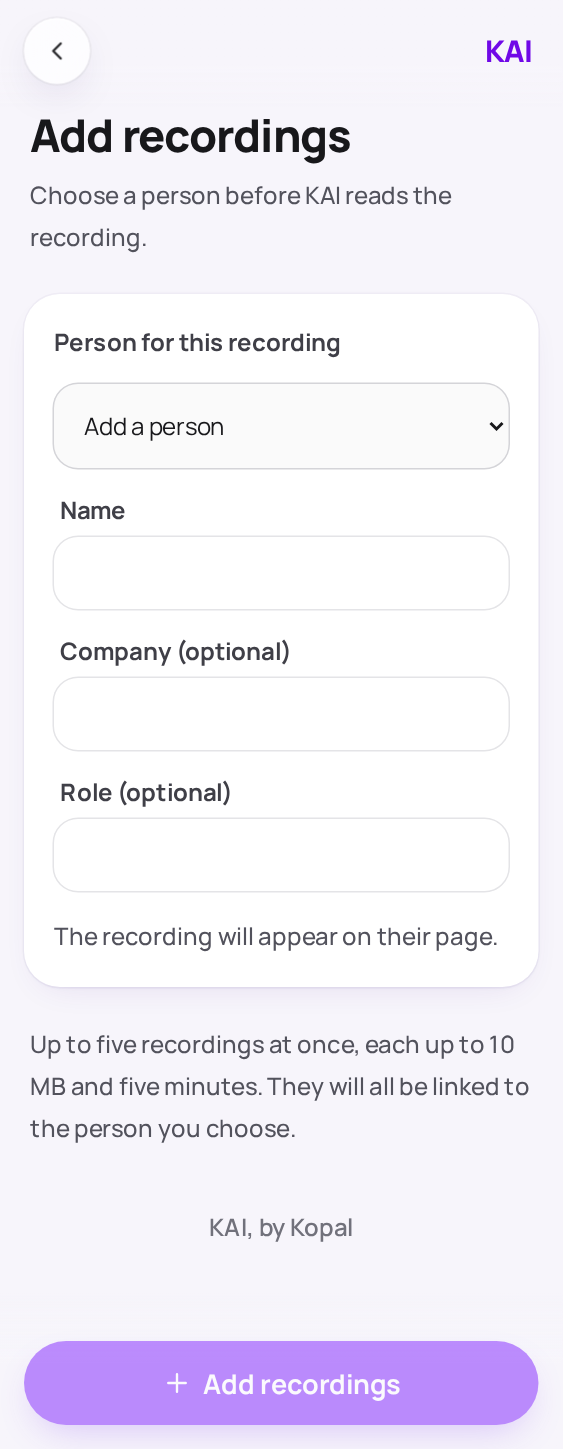
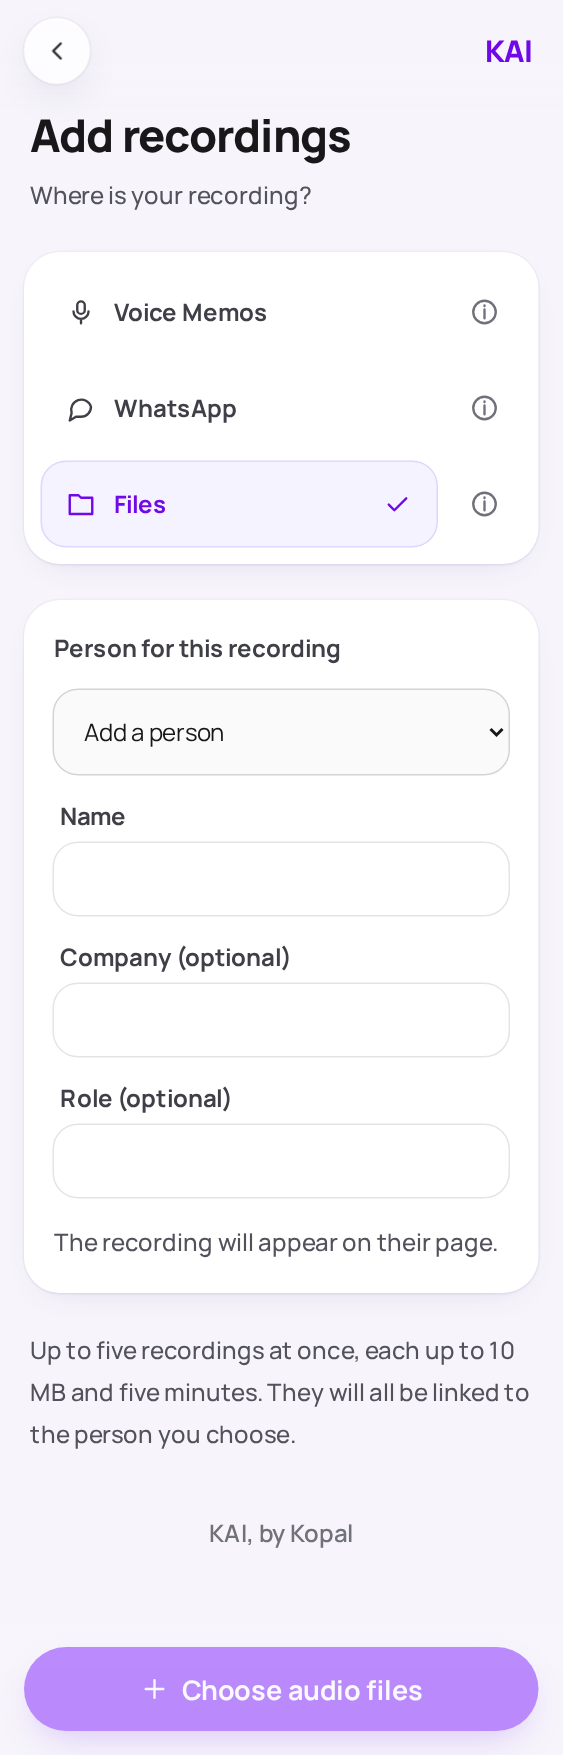
Guide audio uploads from Voice Memos, WhatsApp and Files

diff --git a/src/look/screens/Upload.tsx b/src/look/screens/Upload.tsx
@@ -1,8 +1,22 @@
 import { useState } from 'react'
 import type { LinkedPerson, PersonChoice } from '../types'
-import { Button, Card, Field, Notice, PushedPage, RecordingPicker, WhatIsKai } from '../ui'
+import { Button, Card, Field, FOCUS, Notice, PushedPage, RecordingPicker, WhatIsKai } from '../ui'
+import {Icon,type IconName} from '../icons'
+export type UploadSource='voice-memos'|'whatsapp'|'files'
+const sources:{id:UploadSource;label:string;icon:IconName}[]=[{id:'voice-memos',label:'Voice Memos',icon:'mic'},{id:'whatsapp',label:'WhatsApp',icon:'chat'},{id:'files',label:'Files',icon:'folder'}]
+const guides:Record<UploadSource,string[]>={
+ 'voice-memos':['Choose a recording in Voice Memos.','Tap More (…), then Share. If Options appears, choose Rendered audio.','Choose Send to KAI. Your browser opens so you can choose a person before KAI reads.'],
+ whatsapp:['Hold the voice note in WhatsApp, then tap Forward.','Tap Share, then Send to KAI.','Your browser opens so you can choose who sent it before KAI reads.'],
+ files:['Save a recording to Files from the app’s Share menu.','Choose the person below, then choose up to five audio files.','KAI checks their length against your remaining time before starting.']
+}
+const timeLeft=(seconds:number)=>`${Math.floor(seconds/60)} min ${seconds%60} sec`
 
-export function Upload({ people, incoming, readOnly, presetPerson, busy, error, loadError, onFiles, onStart, onRetry }: {
+export function Upload({ people, incoming, readOnly, presetPerson, busy, error, loadError, onFiles, onStart, onRetry, shortcutReady=false, remainingSeconds, xPostUrl, initialSource='files', initialGuide }: {
+  shortcutReady?: boolean
+  remainingSeconds?: number | null
+  xPostUrl?: string | null
+  initialSource?: UploadSource
+  initialGuide?: UploadSource
   people: LinkedPerson[] | null
   incoming?: { id: string; title: string } | null
   readOnly: boolean
@@ -14,17 +28,22 @@ export function Upload({ people, incoming, readOnly, presetPerson, busy, error, 
   onStart: (person: PersonChoice) => void
   onRetry: () => void
 }) {
+  const [source,setSource]=useState<UploadSource>(initialSource),[guide,setGuide]=useState<UploadSource|null>(initialGuide ?? null)
+  const exhausted=remainingSeconds===0 && !incoming
   const [selected,setSelected]=useState(presetPerson ?? '')
   const [id]=useState(()=>crypto.randomUUID())
   const [name,setName]=useState(''),[company,setCompany]=useState(''),[role,setRole]=useState('')
   const person:PersonChoice=selected==='new' ? {new_person:{id,name:name.trim(),company:company.trim(),role:role.trim()}} : {person_id:selected || null}
   const valid=selected!=='new' || Boolean(name.trim())
-  const dock=readOnly ? <WhatIsKai/> : loadError ? <Button variant="primary" wide onClick={onRetry}>Try again</Button> : !people ? <Button variant="primary" wide disabled>Opening…</Button> : incoming ? <Button variant="primary" wide disabled={busy || !valid} onClick={()=>onStart(person)}>{busy ? 'Starting…' : 'Let KAI read'}</Button> : <RecordingPicker busy={busy} disabled={!valid} onFiles={files=>onFiles(files,person)}/>
+  const dock=readOnly ? <WhatIsKai/> : loadError ? <Button variant="primary" wide onClick={onRetry}>Try again</Button> : !people ? <Button variant="primary" wide disabled>Opening…</Button> : exhausted ? <Button variant="primary" wide href={xPostUrl || '/home'}>{xPostUrl ? 'Show KAI some love':'Back to Home'}</Button> : incoming ? <Button variant="primary" wide disabled={busy || !valid} onClick={()=>onStart(person)}>{busy ? 'Starting…' : 'Let KAI read'}</Button> : source!=='files' ? <Button variant="primary" wide href={!shortcutReady ? '/connect?next='+source : source==='whatsapp' ? 'whatsapp://app':'voicememos://'}>{!shortcutReady ? 'Set up shortcut':source==='whatsapp' ? 'Open WhatsApp':'Open Voice Memos'}</Button> : <RecordingPicker label="Choose audio files" busy={busy} disabled={!valid} onFiles={files=>onFiles(files,person)}/>
   return <PushedPage back="/home" backLabel="Back to Home" readOnly={readOnly} dock={dock}>
-    <header className="px-1"><h1 className="text-[30px]/9 font-extrabold tracking-tight">Add recordings</h1><p className="mt-2 text-base/7 font-medium text-zinc-600">Choose a person before KAI reads the recording.</p></header>
-    {readOnly ? <Card className="p-5 text-base/7 font-medium text-zinc-600">Open your own copy to add recordings.</Card> : loadError ? <Notice tone="error">{loadError}</Notice> : !people ? <Notice>Opening your upload…</Notice> : <>
+    <header className="px-1"><h1 className="text-[30px]/9 font-extrabold tracking-tight">Add recordings</h1><p className="mt-2 text-base/7 font-medium text-zinc-600">{incoming ? 'Choose a person before KAI reads the recording.':'Where is your recording?'}</p></header>
+    {readOnly ? <Card className="p-5 text-base/7 font-medium text-zinc-600">Open your own copy to add recordings.</Card> : loadError ? <Notice tone="error">{loadError}</Notice> : !people ? <Notice>Opening your upload…</Notice> : exhausted ? <Card className="space-y-3 p-5"><h2 className="text-xl font-extrabold">Your hour is complete</h2><p className="text-base/7 text-zinc-600">You’ve used your recording time. Your people, tasks and past recordings are still here.</p></Card> : <>
+      {!incoming && <Card className="p-3"><div role="group" aria-label="Recording source" className="space-y-2">{sources.map(item=><div key={item.id} className="flex items-center gap-2"><button type="button" aria-pressed={source===item.id} disabled={busy} onClick={()=>{setSource(item.id);setGuide(null)}} className={`${FOCUS} flex min-h-14 min-w-0 flex-1 items-center gap-3 rounded-2xl px-4 text-left text-base font-bold ${source===item.id ? 'bg-violet-50 text-violet-700 ring-1 ring-violet-200':'text-zinc-700 hover:bg-zinc-50'}`}><Icon name={item.icon}/><span className="flex-1">{item.label}</span>{source===item.id && <Icon name="check"/>}</button><button type="button" aria-label={'How to add from '+item.label} aria-expanded={guide===item.id} aria-controls="source-guide" onClick={()=>{setSource(item.id);setGuide(guide===item.id ? null:item.id)}} className={`${FOCUS} flex size-12 shrink-0 items-center justify-center rounded-full text-zinc-500 hover:bg-zinc-100`}><Icon name="info"/></button></div>)}</div></Card>}
+      {guide && !incoming && <Card id="source-guide" className="p-5"><h2 className="text-lg font-extrabold">From {sources.find(s=>s.id===guide)!.label}</h2><ol className="mt-3 list-decimal space-y-3 pl-5 text-base/7 text-zinc-600">{guide!=='files' && !shortcutReady && <li>Set up Send to KAI using the button below.</li>}{guides[guide].map(step=><li key={step}>{step}</li>)}</ol></Card>}
+      {!incoming && source!=='files' && <Notice>{shortcutReady ? 'Open the app, share your recording to Send to KAI, then choose a person here. If the app does not open, open it from your Home Screen.' : 'First, add Send to KAI to your iPhone’s shortcuts. Then share a recording from the app.'}</Notice>}
       {incoming && <Card className="p-5"><p className="text-base font-bold text-violet-700">Shared from your phone</p><h2 className="mt-1 text-lg font-extrabold">{incoming.title}</h2><p className="mt-2 text-base/7 font-medium text-zinc-600">Your recording is attached and waiting for you.</p></Card>}
-      <Card className="space-y-4 p-5">
+      {(incoming || source==='files') && <Card className="space-y-4 p-5">
         <label htmlFor="upload-person" className="block text-base font-bold text-zinc-700">Person for this recording</label>
         <select id="upload-person" disabled={busy} value={selected} onChange={e=>setSelected(e.target.value)} className="min-h-14 w-full rounded-2xl bg-zinc-50 px-4 py-3 text-base text-zinc-900 ring-1 ring-zinc-300 focus:ring-2 focus:ring-violet-500">
           <option value="">Continue without a person</option>
@@ -37,8 +56,9 @@ export function Upload({ people, incoming, readOnly, presetPerson, busy, error, 
           <Field label="Role (optional)" id="person-role" maxLength={120} disabled={busy} value={role} onChange={e=>setRole(e.target.value)}/>
         </>}
         <p className="text-base/7 font-medium text-zinc-600">The recording will appear on their page.</p>
-      </Card>
-      {!incoming && <p className="px-1 text-base/7 font-medium text-zinc-600">Up to five recordings at once, each up to 10 MB and five minutes. They will all be linked to the person you choose.</p>}
+      </Card>}
+      {!incoming && remainingSeconds!=null && <p className="px-1 text-base/7 font-bold text-violet-700">{timeLeft(remainingSeconds)} of recording time left</p>}
+      {!incoming && <p className="px-1 text-base/7 font-medium text-zinc-600">Up to five recordings at once, each up to 10 MB and five minutes. {source==='files' ? 'They will all be linked to the person you choose.':'Choose a person after sharing.'} {remainingSeconds!=null && 'Together, the files must fit your remaining time.'}</p>}
       {error && <Notice tone="error">{error}</Notice>}
     </>}
   </PushedPage>

diff --git a/tests/phone/upload-sources.spec.ts b/tests/phone/upload-sources.spec.ts
@@ -1,0 +1,45 @@
+import {test,expect} from './fixture';
+import {assertPhone} from './usability';
+import {testTone} from '../../src/server/gateway';
+
+test('three audio sources show guidance and return from shortcut setup to the chosen app',async({page,kai})=>{
+ await page.goto('/');await page.evaluate(s=>{history.replaceState(null,'','/#judge='+s);location.reload()},kai.secret);
+ await page.getByRole('link',{name:'Try it yourself',exact:true}).click();await page.goto('/upload/new');
+ for(const name of ['Voice Memos','WhatsApp','Files']){
+  await expect(page.getByRole('button',{name,exact:true})).toBeVisible();
+  await page.getByRole('button',{name:'How to add from '+name}).click();
+  await expect(page.getByRole('heading',{name:'From '+name,exact:true})).toBeVisible();await assertPhone(page);
+ }
+ await page.getByRole('button',{name:'WhatsApp',exact:true}).click();
+ await page.route('**/api/connect',async route=>{const r=await route.fetch();const data=await r.json();await route.fulfill({json:{...data,uploadPath:'/in/layout-example',mcpPath:'/mcp/layout-example'}})});
+ await page.getByRole('link',{name:'Set up shortcut',exact:true}).click();await expect(page).toHaveURL(/connect\?next=whatsapp$/);
+ await page.getByRole('button',{name:'I’ve added the shortcut',exact:true}).click();
+ await expect(page).toHaveURL(/upload\/new\?source=whatsapp$/);
+ await expect(page.getByRole('link',{name:'Open WhatsApp',exact:true})).toHaveAttribute('href','whatsapp://app');await assertPhone(page);
+ await page.getByRole('button',{name:'Voice Memos',exact:true}).click();
+ await expect(page.getByRole('link',{name:'Open Voice Memos',exact:true})).toHaveAttribute('href','voicememos://');
+ await page.getByRole('button',{name:'Files',exact:true}).click();
+ const picker=page.getByLabel('Add recordings: choose up to five audio files');await expect(picker).toHaveAttribute('accept','.m4a,.opus,.ogg,.mp3,.wav');
+ await picker.setInputFiles({name:'invented.txt',mimeType:'text/plain',buffer:Buffer.from('Invented words.')});
+ await expect(page.getByText('Choose an audio file: M4A, OPUS, OGG, MP3 or WAV.',{exact:true})).toBeVisible();await expect(page).toHaveURL(/upload\/new/);
+ await assertPhone(page);
+});
+
+test('remaining time refuses an oversized duration, hides a missing post, and lets reserved shared audio finish',async({page,kai})=>{
+ await page.goto('/');await page.evaluate(s=>{history.replaceState(null,'','/#judge='+s);location.reload()},kai.secret);
+ await page.getByRole('link',{name:'Try it yourself',exact:true}).click();
+ const cookie=(await page.context().cookies()).find(c=>c.name==='kai_session')!;const id=cookie.value.split('.')[0];
+ kai.db.prepare('UPDATE workspaces SET trial_verified=1,trial_seconds=1 WHERE id=?').run(id);
+ await page.goto('/upload/new');await expect(page.getByText('0 min 1 sec of recording time left',{exact:true})).toBeVisible();
+ await page.getByLabel('Add recordings: choose up to five audio files').setInputFiles({name:'invented.wav',mimeType:'audio/wav',buffer:testTone()});
+ await expect(page.getByText(/remaining recording time/)).toBeVisible();
+ expect((kai.db.prepare('SELECT trial_seconds FROM workspaces WHERE id=?').get(id) as {trial_seconds:number}).trial_seconds).toBe(1);
+ kai.db.prepare('UPDATE workspaces SET trial_seconds=2 WHERE id=?').run(id);
+ const connection=await (await page.request.get('/api/connect')).json();
+ const r=await page.request.post(connection.uploadPath,{multipart:{recordings:{name:'invented.wav',mimeType:'audio/wav',buffer:testTone()},date:new Date().toISOString()}});expect(r.status()).toBe(202);const {ids}=await r.json();
+ // The last two seconds are already reserved. The attached recording must still be startable.
+ await page.goto('/upload/'+ids[0]);await expect(page.getByRole('button',{name:'Let KAI read',exact:true})).toBeEnabled();await assertPhone(page);
+ await page.getByRole('button',{name:'Let KAI read',exact:true}).click();await expect(page.getByRole('button',{name:/^Accept all/})).toBeEnabled();
+ await page.goto('/upload/new');await expect(page.getByRole('heading',{name:'Your hour is complete'})).toBeVisible();await expect(page.getByRole('link',{name:'Show KAI some love'})).toHaveCount(0);await assertPhone(page);
+ await page.goto('/home');await expect(page.getByRole('link',{name:'Show KAI some love'})).toHaveCount(0);
+});

diff --git a/design/gallery.tsx b/design/gallery.tsx
@@ -114,7 +114,16 @@ const STATES: Record<string, { title: string; screen: () => ReactNode }> = {
   'home/trial-used': {title:'Home · trial used',screen:()=> <Home {...homeProps} readOnly={false} home={{...data.home,trialSeconds:0,trialVerified:true}}/>},
   'opening/page': { title: 'Page · opening', screen: () => <Opening page="People" onRetry={nothing}/> },
   'opening/failed': { title: 'Page · could not open', screen: () => <Opening page="People" failed onRetry={nothing}/> },
-  upload: { title: 'Upload · choose a person', screen: () => <Upload people={data.people} readOnly={false} onFiles={nothing} onStart={nothing} onRetry={nothing}/> },
+  upload: { title: 'Upload · choose a source', screen: () => <Upload people={data.people} readOnly={false} remainingSeconds={152} onFiles={nothing} onStart={nothing} onRetry={nothing}/> },
+  "upload/voice-memos": {title:"Upload · voice-memos",screen:()=> <Upload people={data.people} readOnly={false} initialSource="voice-memos" onFiles={nothing} onStart={nothing} onRetry={nothing}/>},
+  "upload/whatsapp": {title:"Upload · whatsapp",screen:()=> <Upload people={data.people} readOnly={false} initialSource="whatsapp" onFiles={nothing} onStart={nothing} onRetry={nothing}/>},
+  "upload/voice-memos-ready": {title:"Upload · voice-memos-ready",screen:()=> <Upload people={data.people} readOnly={false} initialSource="voice-memos" shortcutReady onFiles={nothing} onStart={nothing} onRetry={nothing}/>},
+  "upload/whatsapp-ready": {title:"Upload · whatsapp-ready",screen:()=> <Upload people={data.people} readOnly={false} initialSource="whatsapp" shortcutReady onFiles={nothing} onStart={nothing} onRetry={nothing}/>},
+  "upload/voice-memos-guide": {title:"Upload · voice-memos-guide",screen:()=> <Upload people={data.people} readOnly={false} initialSource="voice-memos" initialGuide="voice-memos" onFiles={nothing} onStart={nothing} onRetry={nothing}/>},
+  "upload/whatsapp-guide": {title:"Upload · whatsapp-guide",screen:()=> <Upload people={data.people} readOnly={false} initialSource="whatsapp" initialGuide="whatsapp" shortcutReady onFiles={nothing} onStart={nothing} onRetry={nothing}/>},
+  "upload/files-guide": {title:"Upload · files-guide",screen:()=> <Upload people={data.people} readOnly={false} initialGuide="files" onFiles={nothing} onStart={nothing} onRetry={nothing}/>},
+  "upload/quota-used": {title:"Upload · quota-used",screen:()=> <Upload people={data.people} readOnly={false} remainingSeconds={0} onFiles={nothing} onStart={nothing} onRetry={nothing}/>},
+  "upload/shared-quota-used": {title:"Upload · shared-quota-used",screen:()=> <Upload people={data.people} readOnly={false} remainingSeconds={0} incoming={{id:"invented",title:"New recording"}} onFiles={nothing} onStart={nothing} onRetry={nothing}/>},
   'upload/new-person': { title: 'Upload · add a person', screen: () => <Upload people={data.people} readOnly={false} presetPerson="new" onFiles={nothing} onStart={nothing} onRetry={nothing}/> },
   'upload/shared': { title: 'Upload · a WhatsApp voice note', screen: () => <Upload people={data.people} readOnly={false} incoming={{id:'shared',title:'New recording'}} onFiles={nothing} onStart={nothing} onRetry={nothing}/> },
   'upload/loading': { title: 'Upload · opening', screen: () => <Upload people={null} readOnly={false} onFiles={nothing} onStart={nothing} onRetry={nothing}/> },

diff --git a/src/server/app.ts b/src/server/app.ts
@@ -13,7 +13,7 @@ import { cookieName, createJudge, equalSecret, workspaceFor } from './access';
 import { listTodos,finishTodo } from './todos';
 import { mountSharing } from './sharing';
 import { mountMcp } from './mcp';
-import { mountWaitlist } from './waitlist';
+import { mountWaitlist,xPost } from './waitlist';
 import { linkRecordingPerson } from './recording-person';
 export type AppOptions = TrialOptions & {sendReady?:SendReady;trialsPaused?:boolean;judgeSecret?:string; downloadSecret?:string; xPostUrl?:string; now?:()=>number; videoUrl?:string;videoFile?:string; secureCookies?:boolean;reader?:Reader;transcriber?:Transcriber;audioDirectory?:string};
 export function createApp(db: KaiDatabase, options: AppOptions = {}) {
@@ -50,7 +50,7 @@ export function createApp(db: KaiDatabase, options: AppOptions = {}) {
   });
   app.use((_req,_res,next)=>{void work();next();});
   app.get('/healthz', (_req,res) => res.json({status:'ok',commit:process.env.KAI_COMMIT ?? 'local',reading:!options.reader || options.reader===fakeReader ? 'fake':'connector'}));
-  app.get('/api/access',(_req,res) => res.json({kind:res.locals.workspace === 'public' ? 'public' : 'judge',videoUrl:options.videoUrl || null,trialSeconds:(db.prepare('SELECT trial_seconds FROM workspaces WHERE id=?').get(res.locals.workspace) as {trial_seconds:number|null}).trial_seconds}));
+  app.get('/api/access',(_req,res) => res.json({kind:res.locals.workspace === 'public' ? 'public' : 'judge',videoUrl:options.videoUrl || null,xPostUrl:xPost(options.xPostUrl),trialSeconds:(db.prepare('SELECT trial_seconds FROM workspaces WHERE id=?').get(res.locals.workspace) as {trial_seconds:number|null}).trial_seconds}));
   app.get('/api/connect',(_req,res)=> {
     const row=db.prepare("SELECT upload_token,mcp_token,shortcut_ready FROM workspaces WHERE id=? AND kind='judge'").get(res.locals.workspace) as {upload_token:string;mcp_token:string;shortcut_ready:number}|undefined;
     if(!row){res.status(403).json({error:'Open your own copy to connect your phone.'});return;}
@@ -99,6 +99,7 @@ export function createApp(db: KaiDatabase, options: AppOptions = {}) {
   app.get('/api/home',(_req,res) => res.json({
     shortcutReady:Boolean((db.prepare('SELECT shortcut_ready FROM workspaces WHERE id=?').get(res.locals.workspace) as {shortcut_ready:number}).shortcut_ready),
     trialVerified:Boolean((db.prepare('SELECT trial_verified FROM workspaces WHERE id=?').get(res.locals.workspace) as {trial_verified:number}).trial_verified),
+    xPostUrl:xPost(options.xPostUrl),
     trialSeconds:(db.prepare('SELECT trial_seconds FROM workspaces WHERE id=?').get(res.locals.workspace) as {trial_seconds:number|null}).trial_seconds,
     todos:db.prepare("SELECT t.id,t.text,t.due_on,p.name AS person_name FROM todos t LEFT JOIN people p ON p.id=t.person_id AND p.workspace_id=t.workspace_id WHERE t.workspace_id = ? AND t.status = 'open' AND t.owner_person_id IS NULL ORDER BY t.due_on IS NULL,t.due_on").all(res.locals.workspace),
     conversations:db.prepare('SELECT id,title,summary,happened_on FROM conversations WHERE workspace_id = ? ORDER BY happened_on DESC').all(res.locals.workspace),

diff --git a/src/UploadPage.tsx b/src/UploadPage.tsx
@@ -1,13 +1,18 @@
 import { useEffect,useState } from 'react';
-import { Upload } from './look/screens/Upload';
+import { Upload,type UploadSource } from './look/screens/Upload';
 import type { LinkedPerson,PersonChoice } from './look/types';
 import { useUpload } from './Upload';
 export function UploadPage({readOnly}:{readOnly:boolean}) {
+  const [setup,setSetup]=useState(false),[remaining,setRemaining]=useState<number|null>(null),[post,setPost]=useState<string|null>(null);
+  const source=new URLSearchParams(location.search).get('source');
+  const initialSource:UploadSource=source==='voice-memos' || source==='whatsapp' ? source:'files';
   const [people,setPeople]=useState<LinkedPerson[]|null>(null),[incoming,setIncoming]=useState<{id:string;title:string}|null>(null);
   const [loadError,setLoadError]=useState(''),[error,setError]=useState(''),[starting,setStarting]=useState(false);
   const upload=useUpload(),path=location.pathname.split('/')[2];
   useEffect(()=>{if(readOnly)return;let alive=true;
     async function load(){try {
+      const [a,c]=await Promise.all([fetch('/api/access'),fetch('/api/connect')]);if(!a.ok || !c.ok)throw new Error();
+      const access=await a.json(),connection=await c.json();if(alive){setRemaining(access.trialSeconds);setPost(access.xPostUrl);setSetup(connection.shortcutReady);}
       const p=await fetch('/api/people');if(!p.ok)throw new Error();const people=await p.json();
       if(path && path!=='new') {
         const r=await fetch('/api/readings/'+encodeURIComponent(path));if(!r.ok)throw new Error();const recording=await r.json();
@@ -26,5 +31,5 @@ export function UploadPage({readOnly}:{readOnly:boolean}) {
     try {const r=await fetch('/api/uploads/'+encodeURIComponent(incoming.id)+'/start',{method:'POST',headers:{'Content-Type':'application/json'},body:JSON.stringify(person)});const data=await r.json();if(!r.ok)throw new Error(data.error);location.assign('/recordings/'+encodeURIComponent(incoming.id));}
     catch(e){setError(e instanceof Error ? e.message:'KAI could not start. Try again.');setStarting(false);}
   }
-  return <Upload people={people} incoming={incoming} readOnly={readOnly} presetPerson={new URLSearchParams(location.search).get('person') ?? undefined} busy={starting || upload.adding} error={error || upload.addError} loadError={loadError} onFiles={upload.onFiles} onStart={person=>void start(person)} onRetry={()=>location.reload()}/>;
+  return <Upload shortcutReady={setup} remainingSeconds={remaining} xPostUrl={post} initialSource={initialSource} people={people} incoming={incoming} readOnly={readOnly} presetPerson={new URLSearchParams(location.search).get('person') ?? undefined} busy={starting || upload.adding} error={error || upload.addError} loadError={loadError} onFiles={upload.onFiles} onStart={person=>void start(person)} onRetry={()=>location.reload()}/>;
 }

diff --git a/src/look/screens/Home.tsx b/src/look/screens/Home.tsx
@@ -177,6 +177,7 @@ export function Home({
       {home && !readOnly && !home.shortcutReady && <Card className="space-y-3 p-5"><h2 className="text-xl font-extrabold">Send voice notes straight to KAI</h2><p className="text-base/7 text-zinc-600">Set up the iPhone shortcut once, then share from Voice Memos or WhatsApp.</p><Button variant="outline" href="/connect">Set up your phone</Button></Card>}
       {home?.trialSeconds!=null && !home.trialVerified && <Card className="p-5"><p className="mb-3 text-base/7">Verify your email to continue your trial. Your notebook and remaining time are kept.</p><Button href="/try" variant="outline">Verify email</Button></Card>}
       {home?.trialSeconds!=null && home.trialVerified && <p className="px-1 text-base/7 text-zinc-600">KAI will email you when a recording is ready, with suggestion counts and a link to review.</p>}
+      {home?.trialSeconds===0 && home.xPostUrl && <Button href={home.xPostUrl} variant="outline">Show KAI some love</Button>}
       {home?.trialSeconds!=null && <p className="px-1 text-base/7 font-medium text-zinc-600">{home.trialSeconds ? `${Math.floor(home.trialSeconds/60)} min ${home.trialSeconds%60} sec of recording time left` : 'You’ve used your hour of recordings. Your notebook and assistant connection are still here.'}</p>}
       {home && !readOnly && home.conversations.length===0 && <Card className="p-5"><h2 className="text-xl font-extrabold">Your notebook starts here</h2><p className="mt-2 text-base/7 text-zinc-600">Add a recording. KAI will find the people, notes and to-dos for you to review.</p></Card>}
       {addError && <Notice tone="error">{addError}</Notice>}

diff --git a/src/look/ui.tsx b/src/look/ui.tsx
@@ -522,12 +522,12 @@ export function AddRecordings({ personId, hideNotifications }: { onFiles?: (file
   </div>
 }
 
-export function RecordingPicker({ onFiles, busy, disabled }: { onFiles: (files: File[]) => void; busy?: boolean; disabled?: boolean }) {
+export function RecordingPicker({ onFiles, busy, disabled, label='Add recordings' }: { label?:string; onFiles: (files: File[]) => void; busy?: boolean; disabled?: boolean }) {
   return (
     <div className="relative">
       <button type="button" tabIndex={-1} aria-hidden="true" disabled={busy || disabled} className={clsx(PILL, VARIANT.primary, 'h-14 w-full text-lg')}>
         <Icon name="plus" />
-        {busy ? 'Adding…' : 'Add recordings'}
+        {busy ? 'Adding…' : label}
       </button>
       <input
         type="file"

diff --git a/src/server/waitlist.ts b/src/server/waitlist.ts
@@ -18,7 +18,7 @@ function visitors(db:KaiDatabase,now:number):Visitors {
   return Object.fromEntries(Object.entries(all).filter(([,v])=>v.seen>now-hour).map(([id,v])=>[id,{seen:v.seen,attempts:v.attempts.filter(at=>at>now-hour)}]));
 }
 function saveVisitors(db:KaiDatabase,all:Visitors) {db.prepare("UPDATE workspaces SET waitlist_visitors=? WHERE id='public'").run(JSON.stringify(all));}
-function xPost(value?:string) {
+export function xPost(value?:string) {
   if(!value)return null;
   try {const url=new URL(value);return url.protocol==='https:' && ['x.com','www.x.com'].includes(url.hostname) && /^\/[A-Za-z0-9_]+\/status\/\d+\/?$/.test(url.pathname) ? url.origin+url.pathname:null;}catch{return null;}
 }

diff --git a/src/Upload.tsx b/src/Upload.tsx
@@ -6,6 +6,7 @@ export function useUpload() {
   async function send(files:File[],person?:PersonChoice) {
     if(!files.length || sending.current)return;
     if(files.length>5 || files.some(f=>f.size>10000000)){setError('Choose one to five recordings, each up to 10 MB.');return;}
+    if(files.some(f=>!f.size || !/\.(m4a|opus|ogg|mp3|wav)$/i.test(f.name))){setError('Choose an audio file: M4A, OPUS, OGG, MP3 or WAV.');return;}
     sending.current=true;setBusy(true);setError('');const body=new FormData();
     if(person)body.append('person',JSON.stringify(person));
     files.forEach(f=>body.append('recordings',f));body.append('dates',JSON.stringify(files.map(f=>f.lastModified)));

diff --git a/src/look/types.ts b/src/look/types.ts
@@ -93,6 +93,7 @@ export type QueueItem = { id: string; title: string; status: RecordingStatus; er
 export type HomeData = {
   shortcutReady?: boolean
   trialVerified?: boolean
+  xPostUrl?: string | null
   trialSeconds?: number | null
   hasRecordings?: boolean
   peopleCount: number

diff --git a/design/README.md b/design/README.md
@@ -45,7 +45,7 @@ and callbacks. The old global `src/style.css` is removed. Stock Catalyst is
 unchanged, including the dialog used for the editing sheet.
 
 The gallery includes loading and failure states needed by the live app.
-`check.mjs` checks all 77 states. The phone suite checks all public and judge
+`check.mjs` checks all 86 states. The phone suite checks all public and judge
 routes, choosing a person before an upload, shared recordings waiting for that choice, Home checkboxes, decisions, editing, errors and quote
 highlighting. It checks the filled violet's resting, hover and active colours,
 and waits for finite layout transitions to settle through retried assertions.
@@ -68,7 +68,7 @@ The dock at the foot of the screen holds it, except where noted.
 | Home, People, To-dos | "Add recordings": opens the upload page to choose a person, then files | "Try it yourself", to trial signup |
 | Recording | "Accept all · n"; "Try again" when it failed; "See people" when all is decided. Hidden while a suggestion is edited: "Save and accept" is then the one | "Back to Home" |
 | Person | "Review suggestions" when some wait; otherwise "Add recordings" | "Back to People" |
-| Upload | "Choose recordings"; "Let KAI read" for a shared recording | "Try it yourself" |
+| Upload | "Choose audio files", "Set up shortcut" or "Open Voice Memos / WhatsApp"; "Let KAI read" for a shared recording | "Try it yourself" |
 | Connect | "Copy your address", in the first card | "Try it yourself" |
 
 ### What the look shows that the server does not send yet
@@ -127,3 +127,10 @@ it is marked done or a shared recording arrives. The notification bell sits
 left of Add recordings and opens ready/failed recording updates. Opening an
 update marks only its current status read; Library keeps the full history.
 These views are newly written in KAI’s style. No other repository was opened.
+
+Add recordings offers Voice Memos, WhatsApp and Files, with sharing guides.
+App choices return from shortcut setup to the selected source. Files keeps
+the person choice before reading. Remaining trial time is shown; when it
+is used, the notebook remains readable. The launch-post link is hidden
+until Copal supplies it. Shared recordings with already reserved time can
+still finish after the allowance reaches zero.
